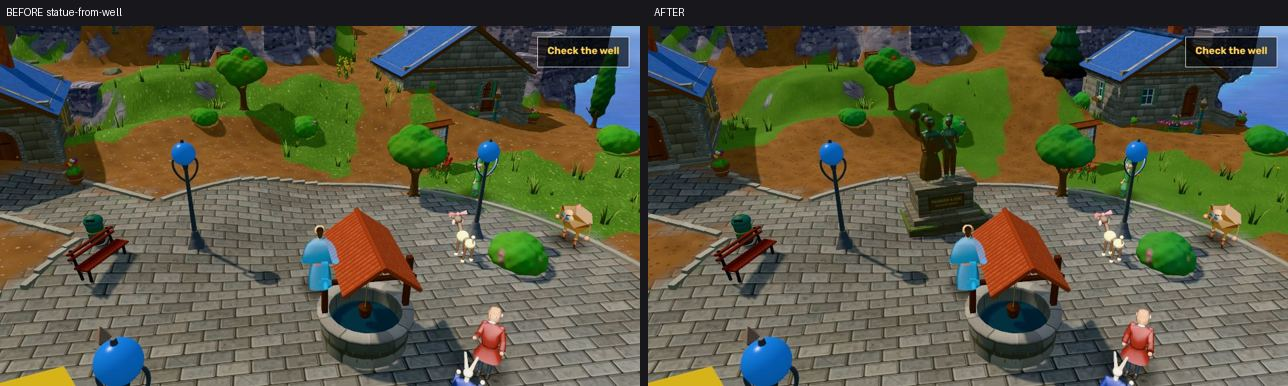
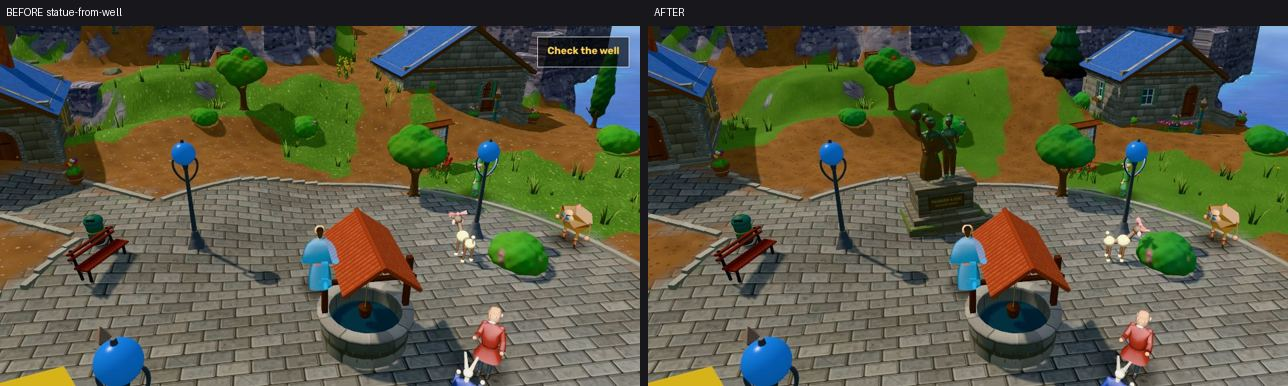
STATUE: the two figures one mesh and the plinth one stone material (6 draws in view to 4)
Claude-Session: https://claude.ai/code/session_019FncRbDPGNFw93M8UijYsd

diff --git a/lba2-remaster/src/game/statue.js b/lba2-remaster/src/game/statue.js
@@ -11,7 +11,8 @@
 // Ours: the game's own Twinsen and Zoé models (assets/poly, the character artist's: used as they are, nothing of
 // theirs is changed), posed side by side, his arm round her and the magic ball raised, baked into one static bronze
 // mesh with twelve years of verdigris on the upward faces; a stepped stone plinth, weathered, with moss at its foot and
-// a bronze plaque. One draw per material, merged with the square's other static pieces (engine/drawbatch.js).
+// a bronze plaque. Four draws where it is in view (measured): the figures as one mesh, the plaque, and the plinth's
+// stone and moss each one draw batch (engine/drawbatch.js).
 import * as THREE from 'three';
 import { createCharacter } from './characters.js';
 import { textures } from '../engine/textures.js';
@@ -102,11 +103,10 @@ export function buildStatue(scene, W, x, z, ry) {
   grp.updateMatrixWorld(true);
   const TX = textures(), stoneMap = TX.stone.clone(); stoneMap.needsUpdate = true; stoneMap.wrapS = stoneMap.wrapT = THREE.RepeatWrapping;
   const stone = new THREE.MeshStandardMaterial({ map: stoneMap, color: '#d9d2c4', roughness: 0.92 });
-  const stoneDark = new THREE.MeshStandardMaterial({ map: stoneMap, color: '#b8b0a2', roughness: 0.95 });
   const moss = new THREE.MeshStandardMaterial({ color: '#5f7e3c', roughness: 1 });
   const box = (w, h, d, m, y, ox = 0, oz = 0) => { const b = new THREE.Mesh(new THREE.BoxGeometry(w, h, d), m); b.position.set(ox, y, oz); b.castShadow = b.receiveShadow = true; grp.add(b); return b; };
   // the plinth (1.6 × 2.4 m in the original): a broad lower step, the die, a moulded cap
-  box(2.9, 0.34, 2.3, stoneDark, 0.12);
+  box(2.9, 0.34, 2.3, stone, 0.12);   // (one stone material for the whole plinth: one draw batch)
   box(2.45, 0.22, 1.85, stone, 0.4);
   box(2.0, 0.95, 1.45, stone, 0.98);
   box(2.2, 0.16, 1.62, stone, 1.53);
@@ -130,8 +130,17 @@ export function buildStatue(scene, W, x, z, ry) {
   const parts = [bake(tw, fig), bake(zo, fig)];
   fig.remove(tw.root, zo.root);
   const bronzeM = new THREE.MeshStandardMaterial({ vertexColors: true, roughness: 0.5, metalness: 0.35 });
-  parts.forEach((pg, i) => { bronzeColors(pg, i * 7.3); const m = new THREE.Mesh(pg, bronzeM); m.castShadow = m.receiveShadow = true; fig.add(m); });
-  let figTop = 0; for (const pg of parts) { pg.computeBoundingBox(); figTop = Math.max(figTop, pg.boundingBox.max.y); }
+  // (the two figures as one mesh: one draw)
+  parts.forEach((pg, i) => bronzeColors(pg, i * 7.3));
+  const both = new THREE.BufferGeometry();
+  for (const name of ['position', 'normal', 'color']) {
+    const arr = new Float32Array(parts.reduce((a, pg) => a + pg.attributes[name].array.length, 0));
+    let o = 0; for (const pg of parts) { arr.set(pg.attributes[name].array, o); o += pg.attributes[name].array.length; }
+    both.setAttribute(name, new THREE.BufferAttribute(arr, 3));
+  }
+  parts.forEach((pg) => pg.dispose());
+  const figs = new THREE.Mesh(both, bronzeM); figs.name = 'statue figures'; figs.castShadow = figs.receiveShadow = true; fig.add(figs);
+  both.computeBoundingBox(); const figTop = both.boundingBox.max.y;
 
   // blocks walking (the plinth's footprint); the camera rises over it as over a house (engine/occlude.js)
   const H = top + figTop;
